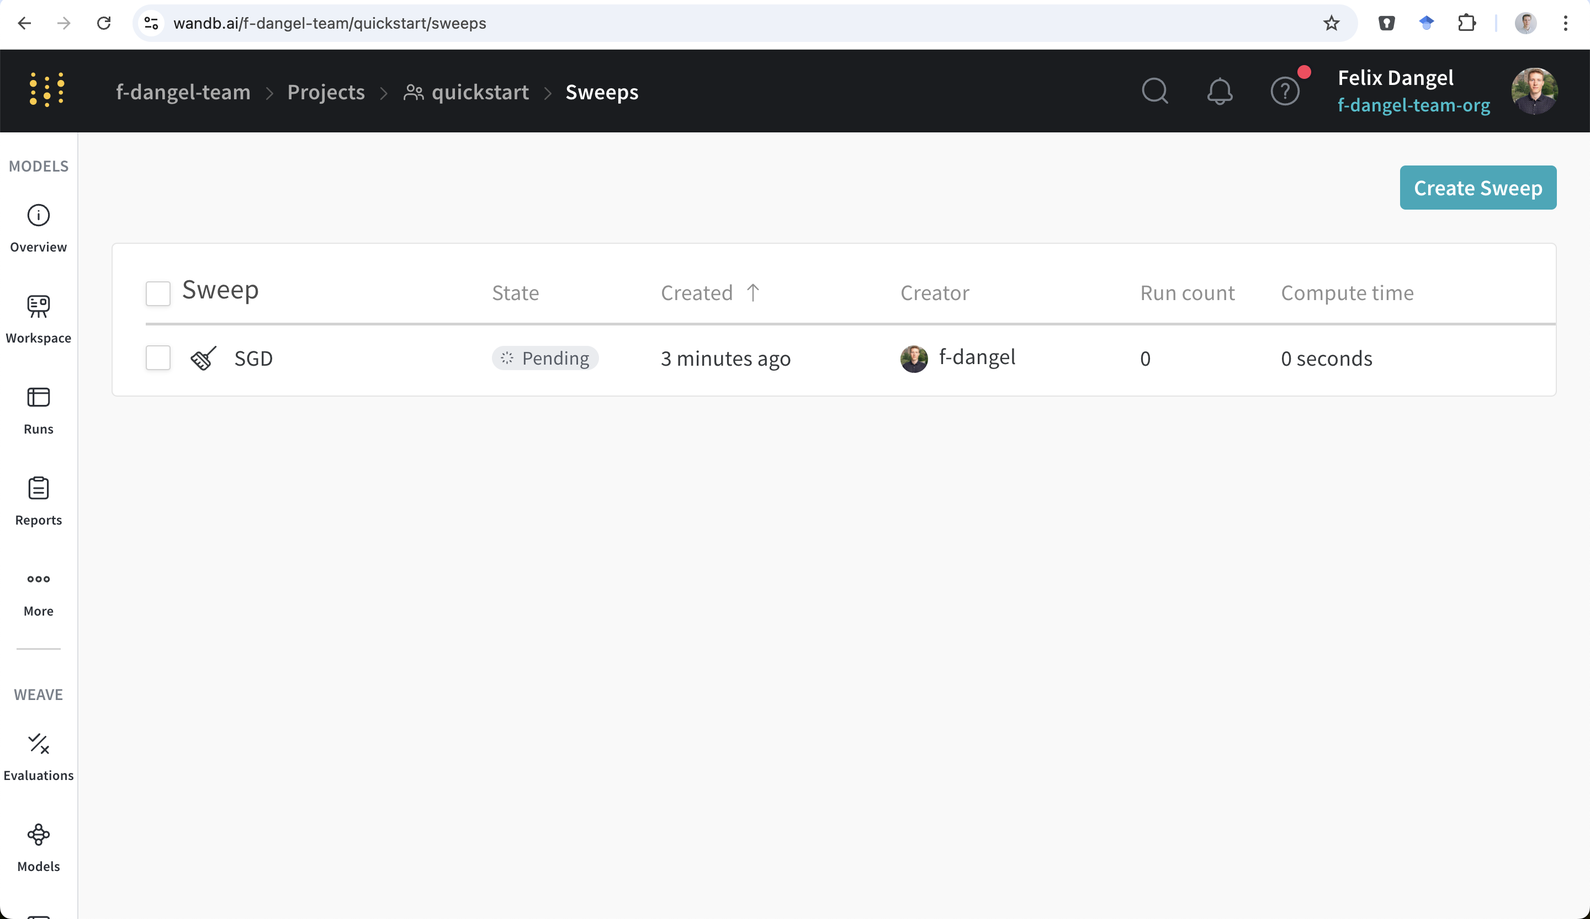
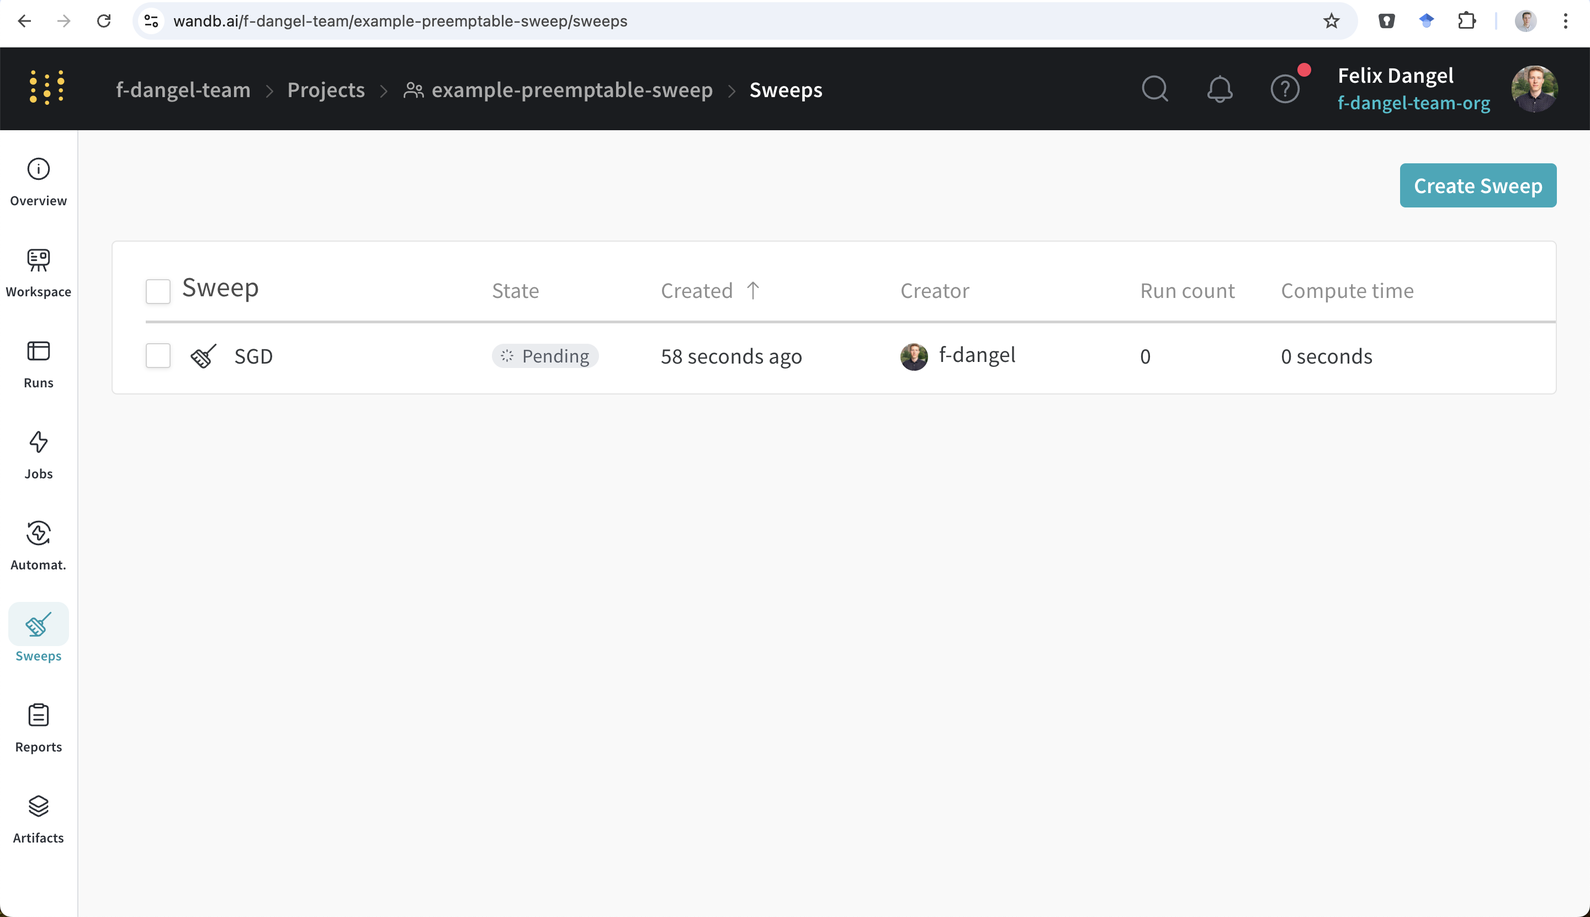
[DOC] More screenshots, roughly complete content

diff --git a/example/README.md b/example/README.md
@@ -36,7 +36,7 @@ The training script also contains code to checkpoint the training loop at the en
 For more details, please expand the code snippet below.
 
 /// details | Details of the training script `example/train.py` ([source](https://github.com/f-dangel/wandb_preempt/blob/main/example/train.py))
-```py hl_lines="37-38 40-41"
+```py
 --8<-- "example/train.py"
 ```
 ///
@@ -63,9 +63,9 @@ wandb sweep sweep.yaml
 /// details | Output
 ```sh hl_lines="4"
 wandb: Creating sweep from: sweep.yaml
-wandb: Creating sweep with ID: qmzevsi8
-wandb: View sweep at: https://wandb.ai/f-dangel-team/example-preemptable-sweep/sweeps/qmzevsi8
-wandb: Run sweep agent with: wandb agent f-dangel-team/example-preemptable-sweep/qmzevsi8
+wandb: Creating sweep with ID: 4m89qo6r
+wandb: View sweep at: https://wandb.ai/f-dangel-team/example-preemptable-sweep/sweeps/4m89qo6r
+wandb: Run sweep agent with: wandb agent f-dangel-team/example-preemptable-sweep/4m89qo6r
 ```
 ///
 
@@ -87,185 +87,187 @@ wandb agent --count=1 f-dangel-team/example-preemptable-sweep/aaq70gt8
 /// details | Training script output
 ```
 wandb: Starting wandb agent 🕵
-2024-09-09 22:16:59,894 - wandb.wandb_agent - INFO - Running runs: []
-2024-09-09 22:17:00,448 - wandb.wandb_agent - INFO - Agent received command: run
-2024-09-09 22:17:00,449 - wandb.wandb_agent - INFO - Agent starting run with config:
+2024-09-11 15:50:13,390 - wandb.wandb_agent - INFO - Running runs: []
+2024-09-11 15:50:13,596 - wandb.wandb_agent - INFO - Agent received command: run
+2024-09-11 15:50:13,596 - wandb.wandb_agent - INFO - Agent starting run with config:
         epochs: 20
-        lr: 0.005417051459795853
-2024-09-09 22:17:00,452 - wandb.wandb_agent - INFO - About to run command: /usr/bin/env python train.py --epochs=20 --lr=0.005417051459795853
-2024-09-09 22:17:05,473 - wandb.wandb_agent - INFO - Running runs: ['lmp9ebp1']
+        lr_max: 0.002046505897436452
+2024-09-11 15:50:13,597 - wandb.wandb_agent - INFO - About to run command: /usr/bin/env python train.py --epochs=20 --lr_max=0.002046505897436452
 wandb: Currently logged in as: f-dangel (f-dangel-team). Use `wandb login --relogin` to force relogin
+2024-09-11 15:50:18,609 - wandb.wandb_agent - INFO - Running runs: ['2zoz0rl8']
 wandb: Tracking run with wandb version 0.17.9
-wandb: Run data is saved locally in ~/wandb_preempt/example/wandb/run-20240909_221710-lmp9ebp1
+wandb: Run data is saved locally in ~/wandb_preempt/example/wandb/run-20240911_155016-2zoz0rl8
 wandb: Run `wandb offline` to turn off syncing.
-wandb: Syncing run denim-sweep-1
+wandb: Syncing run unique-sweep-1
 wandb: ⭐ View project at https://wandb.ai/f-dangel-team/example-preemptable-sweep
-wandb: 🧹 View sweep at https://wandb.ai/f-dangel-team/example-preemptable-sweep/sweeps/qmzevsi8
-wandb: 🚀 View run at https://wandb.ai/f-dangel-team/example-preemptable-sweep/runs/lmp9ebp1
-Using SGD with learning rate 0.005417051459795853.
-[0.0 s | 2024-09-09 22:17:14.343841] Creating checkpoint directory: ~/wandb_preempt/example/checkpoints.
-[0.0 s | 2024-09-09 22:17:14.343944] SLURM job ID: None, array ID: None, task ID: None
-[0.0 s | 2024-09-09 22:17:14.344300] No checkpoint found. Starting from scratch.
+wandb: 🧹 View sweep at https://wandb.ai/f-dangel-team/example-preemptable-sweep/sweeps/4m89qo6r
+wandb: 🚀 View run at https://wandb.ai/f-dangel-team/example-preemptable-sweep/runs/2zoz0rl8
+Using SGD with learning rate 0.002046505897436452.
+[0.0 s | 2024-09-11 15:50:19.844072] Creating checkpoint directory: ~/wandb_preempt/example/checkpoints.
+[0.0 s | 2024-09-11 15:50:19.844166] SLURM job ID: None, array ID: None, task ID: None
+[0.0 s | 2024-09-11 15:50:19.844522] No checkpoint found. Starting from scratch.
 Epoch 0, Step 0, Loss 2.31327e+00
-Epoch 0, Step 50, Loss 2.31236e+00
-Epoch 0, Step 100, Loss 2.29828e+00
-Epoch 0, Step 150, Loss 2.28944e+00
-Epoch 0, Step 200, Loss 2.28544e+00
-[2.8 s | 2024-09-09 22:17:17.181593] Saving checkpoint ~/wandb_preempt/example/checkpoints/2024-09-09/lmp9ebp1_00000000.pt.
-Epoch 1, Step 0, Loss 2.27385e+00
-Epoch 1, Step 50, Loss 2.27472e+00
-Epoch 1, Step 100, Loss 2.25237e+00
-Epoch 1, Step 150, Loss 2.22541e+00
-Epoch 1, Step 200, Loss 2.21894e+00
-[5.6 s | 2024-09-09 22:17:19.918572] Saving checkpoint ~/wandb_preempt/example/checkpoints/2024-09-09/lmp9ebp1_00000001.pt.
-[5.6 s | 2024-09-09 22:17:19.919702] Removing checkpoint ~/wandb_preempt/example/checkpoints/2024-09-09/lmp9ebp1_00000000.pt.
-Epoch 2, Step 0, Loss 2.15103e+00
-Epoch 2, Step 50, Loss 2.11397e+00
-Epoch 2, Step 100, Loss 2.02360e+00
-Epoch 2, Step 150, Loss 1.89612e+00
-Epoch 2, Step 200, Loss 1.77511e+00
-[8.3 s | 2024-09-09 22:17:22.654042] Saving checkpoint ~/wandb_preempt/example/checkpoints/2024-09-09/lmp9ebp1_00000002.pt.
-[8.3 s | 2024-09-09 22:17:22.655190] Removing checkpoint ~/wandb_preempt/example/checkpoints/2024-09-09/lmp9ebp1_00000001.pt.
-Epoch 3, Step 0, Loss 1.64844e+00
-Epoch 3, Step 50, Loss 1.41444e+00
-Epoch 3, Step 100, Loss 1.24010e+00
-Epoch 3, Step 150, Loss 1.09945e+00
-Epoch 3, Step 200, Loss 9.38731e-01
-[11.0 s | 2024-09-09 22:17:25.391665] Saving checkpoint ~/wandb_preempt/example/checkpoints/2024-09-09/lmp9ebp1_00000003.pt.
-[11.0 s | 2024-09-09 22:17:25.392811] Removing checkpoint ~/wandb_preempt/example/checkpoints/2024-09-09/lmp9ebp1_00000002.pt.
-Epoch 4, Step 0, Loss 8.39498e-01
-Epoch 4, Step 50, Loss 7.73968e-01
-Epoch 4, Step 100, Loss 7.30065e-01
-Epoch 4, Step 150, Loss 5.72235e-01
-Epoch 4, Step 200, Loss 6.52813e-01
-[13.8 s | 2024-09-09 22:17:28.133137] Saving checkpoint ~/wandb_preempt/example/checkpoints/2024-09-09/lmp9ebp1_00000004.pt.
-[13.8 s | 2024-09-09 22:17:28.134257] Removing checkpoint ~/wandb_preempt/example/checkpoints/2024-09-09/lmp9ebp1_00000003.pt.
-Epoch 5, Step 0, Loss 5.88400e-01
-Epoch 5, Step 50, Loss 5.26665e-01
-Epoch 5, Step 100, Loss 5.13180e-01
-Epoch 5, Step 150, Loss 5.11152e-01
-Epoch 5, Step 200, Loss 5.30249e-01
-[16.5 s | 2024-09-09 22:17:30.880319] Saving checkpoint ~/wandb_preempt/example/checkpoints/2024-09-09/lmp9ebp1_00000005.pt.
-[16.5 s | 2024-09-09 22:17:30.881465] Removing checkpoint ~/wandb_preempt/example/checkpoints/2024-09-09/lmp9ebp1_00000004.pt.
-Epoch 6, Step 0, Loss 4.68262e-01
-Epoch 6, Step 50, Loss 4.94186e-01
-Epoch 6, Step 100, Loss 5.16372e-01
-Epoch 6, Step 150, Loss 4.25439e-01
-Epoch 6, Step 200, Loss 5.06348e-01
-[19.3 s | 2024-09-09 22:17:33.594644] Saving checkpoint ~/wandb_preempt/example/checkpoints/2024-09-09/lmp9ebp1_00000006.pt.
-[19.3 s | 2024-09-09 22:17:33.595731] Removing checkpoint ~/wandb_preempt/example/checkpoints/2024-09-09/lmp9ebp1_00000005.pt.
-Epoch 7, Step 0, Loss 4.81532e-01
-Epoch 7, Step 50, Loss 4.62612e-01
-Epoch 7, Step 100, Loss 4.84398e-01
-Epoch 7, Step 150, Loss 4.34298e-01
-Epoch 7, Step 200, Loss 4.44681e-01
-[21.9 s | 2024-09-09 22:17:36.292046] Saving checkpoint ~/wandb_preempt/example/checkpoints/2024-09-09/lmp9ebp1_00000007.pt.
-[21.9 s | 2024-09-09 22:17:36.293158] Removing checkpoint ~/wandb_preempt/example/checkpoints/2024-09-09/lmp9ebp1_00000006.pt.
-Epoch 8, Step 0, Loss 4.52199e-01
-Epoch 8, Step 50, Loss 4.06567e-01
-Epoch 8, Step 100, Loss 3.89836e-01
-Epoch 8, Step 150, Loss 4.20403e-01
-Epoch 8, Step 200, Loss 4.92639e-01
-[24.7 s | 2024-09-09 22:17:39.035341] Saving checkpoint ~/wandb_preempt/example/checkpoints/2024-09-09/lmp9ebp1_00000008.pt.
-[24.7 s | 2024-09-09 22:17:39.036695] Removing checkpoint ~/wandb_preempt/example/checkpoints/2024-09-09/lmp9ebp1_00000007.pt.
-Epoch 9, Step 0, Loss 4.22285e-01
-Epoch 9, Step 50, Loss 4.19266e-01
-Epoch 9, Step 100, Loss 3.77887e-01
-Epoch 9, Step 150, Loss 3.27919e-01
-Epoch 9, Step 200, Loss 3.68881e-01
-[27.4 s | 2024-09-09 22:17:41.770130] Saving checkpoint ~/wandb_preempt/example/checkpoints/2024-09-09/lmp9ebp1_00000009.pt.
-[27.4 s | 2024-09-09 22:17:41.771950] Removing checkpoint ~/wandb_preempt/example/checkpoints/2024-09-09/lmp9ebp1_00000008.pt.
-Epoch 10, Step 0, Loss 3.94362e-01
-Epoch 10, Step 50, Loss 4.10359e-01
-Epoch 10, Step 100, Loss 3.79892e-01
-Epoch 10, Step 150, Loss 4.42654e-01
-Epoch 10, Step 200, Loss 4.29457e-01
-[30.1 s | 2024-09-09 22:17:44.474406] Saving checkpoint ~/wandb_preempt/example/checkpoints/2024-09-09/lmp9ebp1_00000010.pt.
-[30.1 s | 2024-09-09 22:17:44.475494] Removing checkpoint ~/wandb_preempt/example/checkpoints/2024-09-09/lmp9ebp1_00000009.pt.
-Epoch 11, Step 0, Loss 3.87773e-01
-Epoch 11, Step 50, Loss 4.67186e-01
-Epoch 11, Step 100, Loss 3.57660e-01
-Epoch 11, Step 150, Loss 3.54450e-01
-Epoch 11, Step 200, Loss 3.43293e-01
-[32.8 s | 2024-09-09 22:17:47.191162] Saving checkpoint ~/wandb_preempt/example/checkpoints/2024-09-09/lmp9ebp1_00000011.pt.
-[32.8 s | 2024-09-09 22:17:47.192310] Removing checkpoint ~/wandb_preempt/example/checkpoints/2024-09-09/lmp9ebp1_00000010.pt.
-Epoch 12, Step 0, Loss 4.69982e-01
-Epoch 12, Step 50, Loss 3.77749e-01
-Epoch 12, Step 100, Loss 4.01224e-01
-Epoch 12, Step 150, Loss 3.48171e-01
-Epoch 12, Step 200, Loss 3.61441e-01
-[35.6 s | 2024-09-09 22:17:49.924267] Saving checkpoint ~/wandb_preempt/example/checkpoints/2024-09-09/lmp9ebp1_00000012.pt.
-[35.6 s | 2024-09-09 22:17:49.925361] Removing checkpoint ~/wandb_preempt/example/checkpoints/2024-09-09/lmp9ebp1_00000011.pt.
-Epoch 13, Step 0, Loss 3.35668e-01
-Epoch 13, Step 50, Loss 3.34111e-01
-Epoch 13, Step 100, Loss 3.22253e-01
-Epoch 13, Step 150, Loss 3.37382e-01
-Epoch 13, Step 200, Loss 3.90798e-01
-[38.3 s | 2024-09-09 22:17:52.667451] Saving checkpoint ~/wandb_preempt/example/checkpoints/2024-09-09/lmp9ebp1_00000013.pt.
-[38.3 s | 2024-09-09 22:17:52.668601] Removing checkpoint ~/wandb_preempt/example/checkpoints/2024-09-09/lmp9ebp1_00000012.pt.
-Epoch 14, Step 0, Loss 3.83771e-01
-Epoch 14, Step 50, Loss 3.24402e-01
-Epoch 14, Step 100, Loss 3.12806e-01
-Epoch 14, Step 150, Loss 3.40762e-01
-Epoch 14, Step 200, Loss 4.72378e-01
-[41.0 s | 2024-09-09 22:17:55.393290] Saving checkpoint ~/wandb_preempt/example/checkpoints/2024-09-09/lmp9ebp1_00000014.pt.
-[41.1 s | 2024-09-09 22:17:55.394609] Removing checkpoint ~/wandb_preempt/example/checkpoints/2024-09-09/lmp9ebp1_00000013.pt.
-Epoch 15, Step 0, Loss 2.78277e-01
-Epoch 15, Step 50, Loss 4.86174e-01
-Epoch 15, Step 100, Loss 3.18030e-01
-Epoch 15, Step 150, Loss 3.39720e-01
-Epoch 15, Step 200, Loss 3.45562e-01
-[43.8 s | 2024-09-09 22:17:58.183117] Saving checkpoint ~/wandb_preempt/example/checkpoints/2024-09-09/lmp9ebp1_00000015.pt.
-[43.8 s | 2024-09-09 22:17:58.184218] Removing checkpoint ~/wandb_preempt/example/checkpoints/2024-09-09/lmp9ebp1_00000014.pt.
-Epoch 16, Step 0, Loss 4.09605e-01
-Epoch 16, Step 50, Loss 4.02795e-01
-Epoch 16, Step 100, Loss 3.30050e-01
-Epoch 16, Step 150, Loss 3.29713e-01
-Epoch 16, Step 200, Loss 3.47872e-01
-[46.6 s | 2024-09-09 22:18:00.935960] Saving checkpoint ~/wandb_preempt/example/checkpoints/2024-09-09/lmp9ebp1_00000016.pt.
-[46.6 s | 2024-09-09 22:18:00.937244] Removing checkpoint ~/wandb_preempt/example/checkpoints/2024-09-09/lmp9ebp1_00000015.pt.
-Epoch 17, Step 0, Loss 3.61874e-01
-Epoch 17, Step 50, Loss 4.21045e-01
-Epoch 17, Step 100, Loss 3.68629e-01
-Epoch 17, Step 150, Loss 3.50573e-01
-Epoch 17, Step 200, Loss 4.53324e-01
-[49.3 s | 2024-09-09 22:18:03.630036] Saving checkpoint ~/wandb_preempt/example/checkpoints/2024-09-09/lmp9ebp1_00000017.pt.
-[49.3 s | 2024-09-09 22:18:03.631169] Removing checkpoint ~/wandb_preempt/example/checkpoints/2024-09-09/lmp9ebp1_00000016.pt.
-Epoch 18, Step 0, Loss 2.75897e-01
-Epoch 18, Step 50, Loss 3.52856e-01
-Epoch 18, Step 100, Loss 3.95981e-01
-Epoch 18, Step 150, Loss 3.01999e-01
-Epoch 18, Step 200, Loss 3.86351e-01
-[52.0 s | 2024-09-09 22:18:06.381923] Saving checkpoint ~/wandb_preempt/example/checkpoints/2024-09-09/lmp9ebp1_00000018.pt.
-[52.0 s | 2024-09-09 22:18:06.383072] Removing checkpoint ~/wandb_preempt/example/checkpoints/2024-09-09/lmp9ebp1_00000017.pt.
-Epoch 19, Step 0, Loss 3.14332e-01
-Epoch 19, Step 50, Loss 2.94699e-01
-Epoch 19, Step 100, Loss 2.69020e-01
-Epoch 19, Step 150, Loss 3.27822e-01
-Epoch 19, Step 200, Loss 3.05174e-01
-[54.8 s | 2024-09-09 22:18:09.101715] Saving checkpoint ~/wandb_preempt/example/checkpoints/2024-09-09/lmp9ebp1_00000019.pt.
-[54.8 s | 2024-09-09 22:18:09.103077] Removing checkpoint ~/wandb_preempt/example/checkpoints/2024-09-09/lmp9ebp1_00000018.pt.
+Epoch 0, Step 50, Loss 2.31634e+00
+Epoch 0, Step 100, Loss 2.30524e+00
+Epoch 0, Step 150, Loss 2.29960e+00
+Epoch 0, Step 200, Loss 2.30427e+00
+[3.0 s | 2024-09-11 15:50:22.801220] Saving checkpoint ~/wandb_preempt/example/checkpoints/2024-09-11/2zoz0rl8_00000000.pt.
+Epoch 1, Step 0, Loss 2.29656e+00
+Epoch 1, Step 50, Loss 2.30689e+00
+Epoch 1, Step 100, Loss 2.29662e+00
+Epoch 1, Step 150, Loss 2.28267e+00
+Epoch 1, Step 200, Loss 2.30082e+00
+[5.7 s | 2024-09-11 15:50:25.576881] Saving checkpoint ~/wandb_preempt/example/checkpoints/2024-09-11/2zoz0rl8_00000001.pt.
+[5.7 s | 2024-09-11 15:50:25.578131] Removing checkpoint ~/wandb_preempt/example/checkpoints/2024-09-11/2zoz0rl8_00000000.pt.
+Epoch 2, Step 0, Loss 2.28091e+00
+Epoch 2, Step 50, Loss 2.27995e+00
+Epoch 2, Step 100, Loss 2.27886e+00
+Epoch 2, Step 150, Loss 2.27613e+00
+Epoch 2, Step 200, Loss 2.27744e+00
+[8.5 s | 2024-09-11 15:50:28.328779] Saving checkpoint ~/wandb_preempt/example/checkpoints/2024-09-11/2zoz0rl8_00000002.pt.
+[8.5 s | 2024-09-11 15:50:28.329942] Removing checkpoint ~/wandb_preempt/example/checkpoints/2024-09-11/2zoz0rl8_00000001.pt.
+Epoch 3, Step 0, Loss 2.27019e+00
+Epoch 3, Step 50, Loss 2.27712e+00
+Epoch 3, Step 100, Loss 2.26028e+00
+Epoch 3, Step 150, Loss 2.25132e+00
+Epoch 3, Step 200, Loss 2.25152e+00
+[11.2 s | 2024-09-11 15:50:31.057194] Saving checkpoint ~/wandb_preempt/example/checkpoints/2024-09-11/2zoz0rl8_00000003.pt.
+[11.2 s | 2024-09-11 15:50:31.058385] Removing checkpoint ~/wandb_preempt/example/checkpoints/2024-09-11/2zoz0rl8_00000002.pt.
+Epoch 4, Step 0, Loss 2.23886e+00
+Epoch 4, Step 50, Loss 2.24897e+00
+Epoch 4, Step 100, Loss 2.23878e+00
+Epoch 4, Step 150, Loss 2.21464e+00
+Epoch 4, Step 200, Loss 2.21080e+00
+[14.0 s | 2024-09-11 15:50:33.822246] Saving checkpoint ~/wandb_preempt/example/checkpoints/2024-09-11/2zoz0rl8_00000004.pt.
+[14.0 s | 2024-09-11 15:50:33.823408] Removing checkpoint ~/wandb_preempt/example/checkpoints/2024-09-11/2zoz0rl8_00000003.pt.
+Epoch 5, Step 0, Loss 2.19485e+00
+Epoch 5, Step 50, Loss 2.19484e+00
+Epoch 5, Step 100, Loss 2.16891e+00
+Epoch 5, Step 150, Loss 2.16754e+00
+Epoch 5, Step 200, Loss 2.13477e+00
+[16.7 s | 2024-09-11 15:50:36.518798] Saving checkpoint ~/wandb_preempt/example/checkpoints/2024-09-11/2zoz0rl8_00000005.pt.
+[16.7 s | 2024-09-11 15:50:36.519988] Removing checkpoint ~/wandb_preempt/example/checkpoints/2024-09-11/2zoz0rl8_00000004.pt.
+Epoch 6, Step 0, Loss 2.12859e+00
+Epoch 6, Step 50, Loss 2.10682e+00
+Epoch 6, Step 100, Loss 2.09931e+00
+Epoch 6, Step 150, Loss 2.08149e+00
+Epoch 6, Step 200, Loss 2.04833e+00
+[19.4 s | 2024-09-11 15:50:39.239762] Saving checkpoint ~/wandb_preempt/example/checkpoints/2024-09-11/2zoz0rl8_00000006.pt.
+[19.4 s | 2024-09-11 15:50:39.240944] Removing checkpoint ~/wandb_preempt/example/checkpoints/2024-09-11/2zoz0rl8_00000005.pt.
+Epoch 7, Step 0, Loss 2.02058e+00
+Epoch 7, Step 50, Loss 1.97293e+00
+Epoch 7, Step 100, Loss 1.94745e+00
+Epoch 7, Step 150, Loss 1.90756e+00
+Epoch 7, Step 200, Loss 1.89235e+00
+[22.1 s | 2024-09-11 15:50:41.981751] Saving checkpoint ~/wandb_preempt/example/checkpoints/2024-09-11/2zoz0rl8_00000007.pt.
+[22.1 s | 2024-09-11 15:50:41.983563] Removing checkpoint ~/wandb_preempt/example/checkpoints/2024-09-11/2zoz0rl8_00000006.pt.
+Epoch 8, Step 0, Loss 1.82919e+00
+Epoch 8, Step 50, Loss 1.80327e+00
+Epoch 8, Step 100, Loss 1.74424e+00
+Epoch 8, Step 150, Loss 1.68607e+00
+Epoch 8, Step 200, Loss 1.67496e+00
+[25.0 s | 2024-09-11 15:50:44.813117] Saving checkpoint ~/wandb_preempt/example/checkpoints/2024-09-11/2zoz0rl8_00000008.pt.
+[25.0 s | 2024-09-11 15:50:44.814475] Removing checkpoint ~/wandb_preempt/example/checkpoints/2024-09-11/2zoz0rl8_00000007.pt.
+Epoch 9, Step 0, Loss 1.62010e+00
+Epoch 9, Step 50, Loss 1.56824e+00
+Epoch 9, Step 100, Loss 1.50516e+00
+Epoch 9, Step 150, Loss 1.48588e+00
+Epoch 9, Step 200, Loss 1.44233e+00
+[27.8 s | 2024-09-11 15:50:47.612270] Saving checkpoint ~/wandb_preempt/example/checkpoints/2024-09-11/2zoz0rl8_00000009.pt.
+[27.8 s | 2024-09-11 15:50:47.613580] Removing checkpoint ~/wandb_preempt/example/checkpoints/2024-09-11/2zoz0rl8_00000008.pt.
+Epoch 10, Step 0, Loss 1.37147e+00
+Epoch 10, Step 50, Loss 1.34652e+00
+Epoch 10, Step 100, Loss 1.31548e+00
+Epoch 10, Step 150, Loss 1.31214e+00
+Epoch 10, Step 200, Loss 1.31763e+00
+[30.5 s | 2024-09-11 15:50:50.342514] Saving checkpoint ~/wandb_preempt/example/checkpoints/2024-09-11/2zoz0rl8_00000010.pt.
+[30.5 s | 2024-09-11 15:50:50.343644] Removing checkpoint ~/wandb_preempt/example/checkpoints/2024-09-11/2zoz0rl8_00000009.pt.
+Epoch 11, Step 0, Loss 1.18105e+00
+Epoch 11, Step 50, Loss 1.18585e+00
+Epoch 11, Step 100, Loss 1.10869e+00
+Epoch 11, Step 150, Loss 1.08874e+00
+Epoch 11, Step 200, Loss 1.06454e+00
+[33.4 s | 2024-09-11 15:50:53.222490] Saving checkpoint ~/wandb_preempt/example/checkpoints/2024-09-11/2zoz0rl8_00000011.pt.
+[33.4 s | 2024-09-11 15:50:53.223652] Removing checkpoint ~/wandb_preempt/example/checkpoints/2024-09-11/2zoz0rl8_00000010.pt.
+Epoch 12, Step 0, Loss 1.13357e+00
+Epoch 12, Step 50, Loss 9.96835e-01
+Epoch 12, Step 100, Loss 1.06371e+00
+Epoch 12, Step 150, Loss 9.63902e-01
+Epoch 12, Step 200, Loss 9.63633e-01
+[36.1 s | 2024-09-11 15:50:55.968639] Saving checkpoint ~/wandb_preempt/example/checkpoints/2024-09-11/2zoz0rl8_00000012.pt.
+[36.1 s | 2024-09-11 15:50:55.970050] Removing checkpoint ~/wandb_preempt/example/checkpoints/2024-09-11/2zoz0rl8_00000011.pt.
+Epoch 13, Step 0, Loss 9.34712e-01
+Epoch 13, Step 50, Loss 8.95310e-01
+Epoch 13, Step 100, Loss 9.12703e-01
+Epoch 13, Step 150, Loss 9.39363e-01
+Epoch 13, Step 200, Loss 9.21194e-01
+[38.9 s | 2024-09-11 15:50:58.722370] Saving checkpoint ~/wandb_preempt/example/checkpoints/2024-09-11/2zoz0rl8_00000013.pt.
+[38.9 s | 2024-09-11 15:50:58.723519] Removing checkpoint ~/wandb_preempt/example/checkpoints/2024-09-11/2zoz0rl8_00000012.pt.
+Epoch 14, Step 0, Loss 8.49049e-01
+Epoch 14, Step 50, Loss 9.19110e-01
+Epoch 14, Step 100, Loss 8.95127e-01
+Epoch 14, Step 150, Loss 8.37601e-01
+Epoch 14, Step 200, Loss 9.13763e-01
+[41.6 s | 2024-09-11 15:51:01.492518] Saving checkpoint ~/wandb_preempt/example/checkpoints/2024-09-11/2zoz0rl8_00000014.pt.
+[41.6 s | 2024-09-11 15:51:01.493670] Removing checkpoint ~/wandb_preempt/example/checkpoints/2024-09-11/2zoz0rl8_00000013.pt.
+Epoch 15, Step 0, Loss 8.37812e-01
+Epoch 15, Step 50, Loss 9.73370e-01
+Epoch 15, Step 100, Loss 7.91447e-01
+Epoch 15, Step 150, Loss 8.27363e-01
+Epoch 15, Step 200, Loss 8.46579e-01
+[44.4 s | 2024-09-11 15:51:04.212638] Saving checkpoint ~/wandb_preempt/example/checkpoints/2024-09-11/2zoz0rl8_00000015.pt.
+[44.4 s | 2024-09-11 15:51:04.213888] Removing checkpoint ~/wandb_preempt/example/checkpoints/2024-09-11/2zoz0rl8_00000014.pt.
+Epoch 16, Step 0, Loss 8.59434e-01
+Epoch 16, Step 50, Loss 9.20763e-01
+Epoch 16, Step 100, Loss 7.62155e-01
+Epoch 16, Step 150, Loss 7.71248e-01
+Epoch 16, Step 200, Loss 8.11831e-01
+[47.1 s | 2024-09-11 15:51:06.972560] Saving checkpoint ~/wandb_preempt/example/checkpoints/2024-09-11/2zoz0rl8_00000016.pt.
+[47.1 s | 2024-09-11 15:51:06.973763] Removing checkpoint ~/wandb_preempt/example/checkpoints/2024-09-11/2zoz0rl8_00000015.pt.
+Epoch 17, Step 0, Loss 8.56807e-01
+Epoch 17, Step 50, Loss 8.06021e-01
+Epoch 17, Step 100, Loss 8.36283e-01
+Epoch 17, Step 150, Loss 7.88259e-01
+Epoch 17, Step 200, Loss 8.26321e-01
+[49.9 s | 2024-09-11 15:51:09.694183] Saving checkpoint ~/wandb_preempt/example/checkpoints/2024-09-11/2zoz0rl8_00000017.pt.
+[49.9 s | 2024-09-11 15:51:09.695488] Removing checkpoint ~/wandb_preempt/example/checkpoints/2024-09-11/2zoz0rl8_00000016.pt.
+Epoch 18, Step 0, Loss 7.45168e-01
+Epoch 18, Step 50, Loss 7.74083e-01
+Epoch 18, Step 100, Loss 8.39497e-01
+Epoch 18, Step 150, Loss 7.77645e-01
+Epoch 18, Step 200, Loss 8.34373e-01
+[52.6 s | 2024-09-11 15:51:12.442971] Saving checkpoint ~/wandb_preempt/example/checkpoints/2024-09-11/2zoz0rl8_00000018.pt.
+[52.6 s | 2024-09-11 15:51:12.444134] Removing checkpoint ~/wandb_preempt/example/checkpoints/2024-09-11/2zoz0rl8_00000017.pt.
+Epoch 19, Step 0, Loss 7.31586e-01
+Epoch 19, Step 50, Loss 7.85134e-01
+Epoch 19, Step 100, Loss 7.31892e-01
+Epoch 19, Step 150, Loss 7.79394e-01
+Epoch 19, Step 200, Loss 7.37044e-01
+[55.3 s | 2024-09-11 15:51:15.190555] Saving checkpoint ~/wandb_preempt/example/checkpoints/2024-09-11/2zoz0rl8_00000019.pt.
+[55.3 s | 2024-09-11 15:51:15.191727] Removing checkpoint ~/wandb_preempt/example/checkpoints/2024-09-11/2zoz0rl8_00000018.pt.
 wandb:
 wandb:
 wandb: Run history:
-wandb:       loss ████▇▇▆▄▃▃▂▂▂▁▂▁▂▁▁▁▁▂▁▁▂▁▁▁▁▁▂▁▁▁▁▁▁▁▁▁
+wandb:      epoch ▁▁▁▁▂▂▂▂▂▂▃▃▃▃▄▄▄▄▄▄▅▅▅▅▅▅▆▆▆▆▇▇▇▇▇▇████
+wandb:       loss ██████████▇▇▇▇▇▆▆▅▅▄▄▄▃▃▃▂▂▂▂▁▂▁▂▁▁▁▁▁▁▁
 wandb: loss_scale ▁▁▁▁▁▁▁▁▁▁▁▁▁▁▁▁▁▁▁▁▁▁▁▁▁▁▁▁▁▁▁▁▁▁▁▁▁▁▁▁
 wandb:         lr ████████▇▇▇▇▇▇▆▆▆▆▅▅▄▄▄▄▃▃▃▃▂▂▂▂▂▂▁▁▁▁▁▁
 wandb:    resumes ▁▁▁▁▁▁▁▁▁▁▁▁▁▁▁▁▁▁▁▁▁▁▁▁▁▁▁▁▁▁▁▁▁▁▁▁▁▁▁▁
 wandb:
 wandb: Run summary:
-wandb:       loss 0.30517
+wandb:      epoch 19
+wandb:       loss 0.73704
 wandb: loss_scale 1.0
-wandb:         lr 3e-05
+wandb:         lr 1e-05
 wandb:    resumes 0
 wandb:
-wandb: 🚀 View run denim-sweep-1 at: https://wandb.ai/f-dangel-team/example-preemptable-sweep/runs/lmp9ebp1
+wandb: 🚀 View run unique-sweep-1 at: https://wandb.ai/f-dangel-team/example-preemptable-sweep/runs/2zoz0rl8
 wandb: ⭐ View project at: https://wandb.ai/f-dangel-team/example-preemptable-sweep
 wandb: Synced 6 W&B file(s), 0 media file(s), 0 artifact file(s) and 0 other file(s)
-wandb: Find logs at: ./wandb/run-20240909_221710-lmp9ebp1/logs
+wandb: Find logs at: ./wandb/run-20240911_155016-2zoz0rl8/logs
 wandb: WARNING The new W&B backend becomes opt-out in version 0.18.0; try it out with `wandb.require("core")`! See https://wandb.me/wandb-core for more information.
-[62.1 s | 2024-09-09 22:18:16.395233] Removing checkpoint ~/wandb_preempt/example/checkpoints/2024-09-09/lmp9ebp1_00000019.pt.
-2024-09-09 22:18:21,429 - wandb.wandb_agent - INFO - Cleaning up finished run: lmp9ebp1
+[60.5 s | 2024-09-11 15:51:20.373116] Removing checkpoint ~/wandb_preempt/example/checkpoints/2024-09-11/2zoz0rl8_00000019.pt.
+2024-09-11 15:51:24,319 - wandb.wandb_agent - INFO - Cleaning up finished run: 2zoz0rl8
 wandb: Terminating and syncing runs. Press ctrl-c to kill.
 ```
 ///
@@ -297,9 +299,20 @@ Use `watch squeue --me` to monitor the job queue. You will observe that the jobs
 
 On the Weights & Biases website, you will see the runs transitioning between the states 'Running', 'Preempted', and 'Finished'. Here is an example view:
 
+![slurm run_preempted](./assets/03_slurm_preempted.png)
 
+After full completion, the 'Workspace' tab on Weights & Biases looks as follows (of course, your curves will look slightly different due to sweep's and compute environment's stochastic nature):
 
-## Details
+![slurm_run_finished](./assets/04_slurm_finished.png)
+
+The `resume` panel shows that different runs pre-empted a different number of times.
+In total, we now have 1 (local) + 10 (SLURM) = 11 (total) finished runs.
+
+## Conclusion
+
+And that is pretty much it. Feel free to stop reading at this point.
+
+## SLURM Launcher Details
 The launch script divides into three parts:
 
 1. **SLURM configuration:** The first block specifies the SLURM resources and task array we are about to submit (lines starting with `#SBATCH`). The important configurations are
@@ -316,6 +329,6 @@ The launch script divides into three parts:
 
     The other configuration flags are resource-specific, and some like the `--partition=a40` will depend on your cluster. In our script, we request NVIDIA A40 GPUs because they support mixed-precision training with `bfloat16` that is used by many modern training pipelines.
 
-2. **Printing details and wandb agent launch** This part executes the `wandb agent` on our sweep and puts it into the background so our launch script can start listening to signals from SLURM.
+2. **Printing details and wandb agent launch:** This part executes the `wandb agent` on our sweep and puts it into the background so our launch script can start listening to signals from SLURM.
 
-3. **Installing a signal handler**
+3. **Installing a trap handler:** This function will process the signal sent by SLURM and pass it on to the python process, which will then initiate pre-emption and requeueing.
